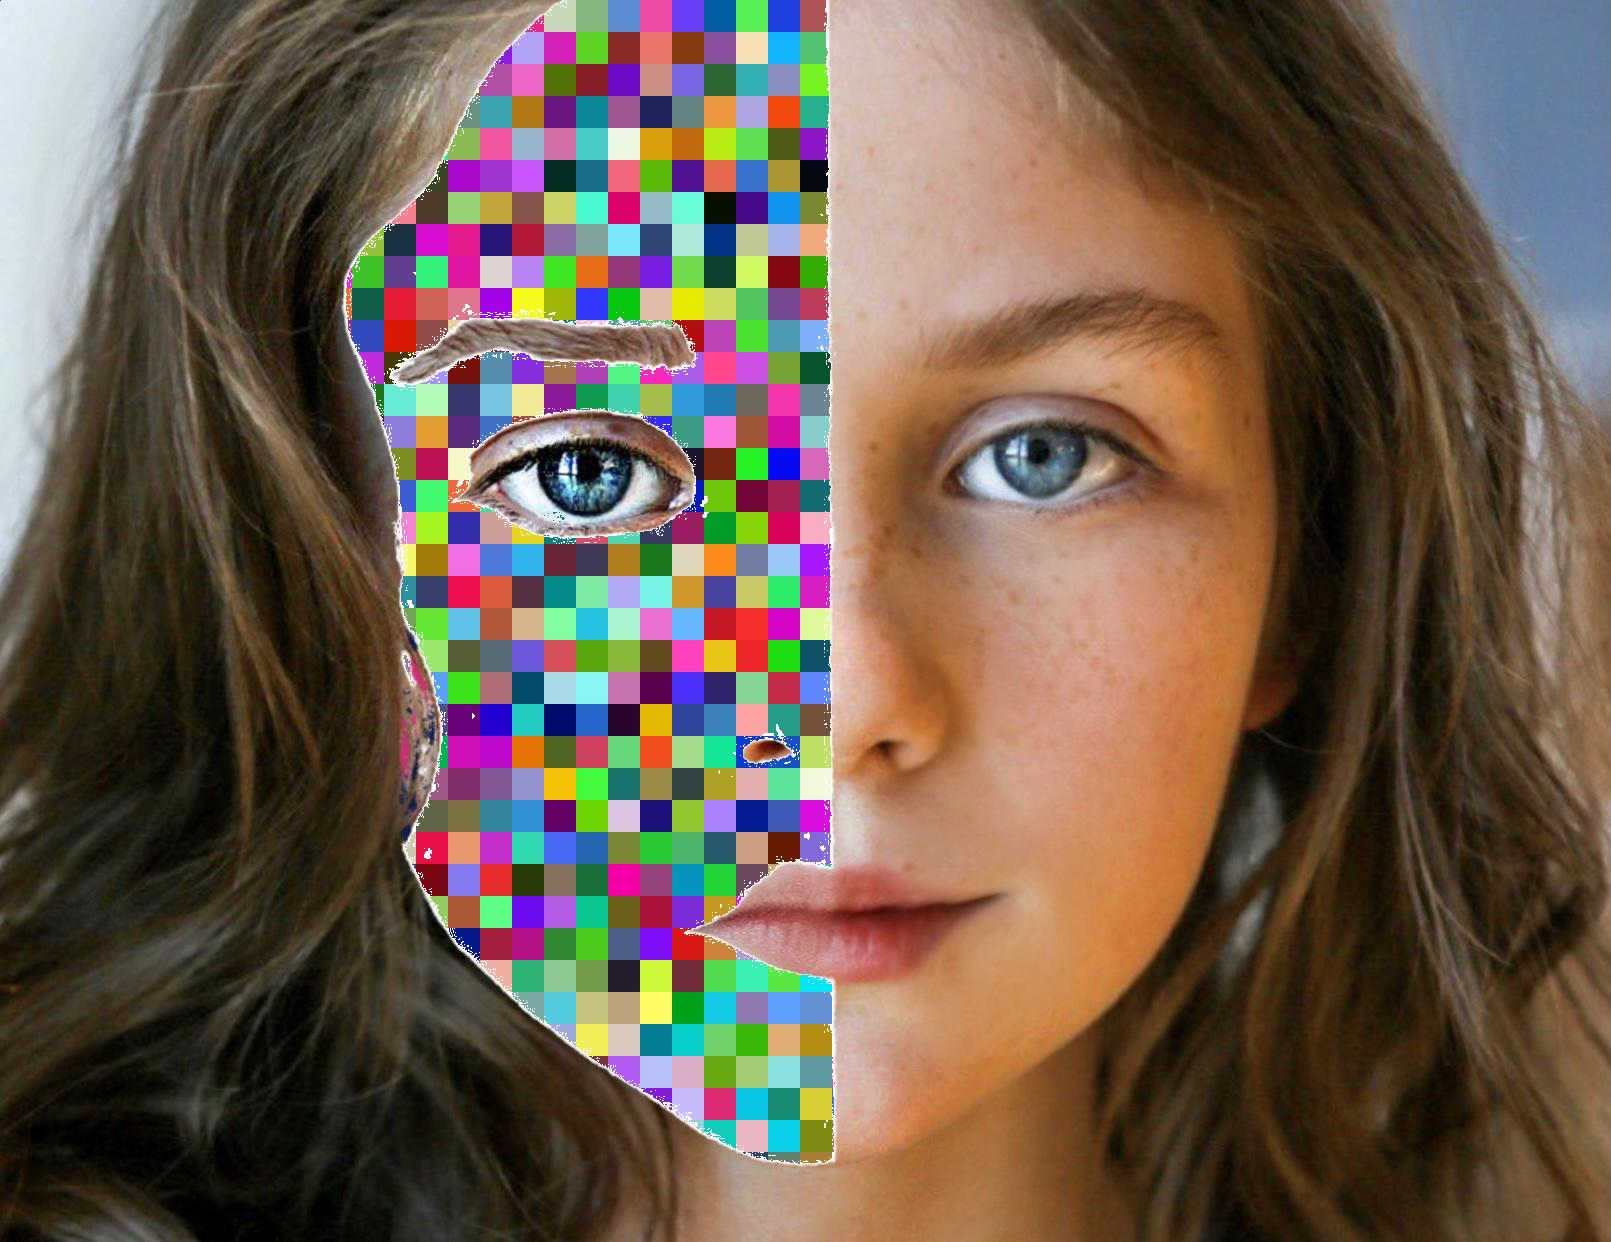
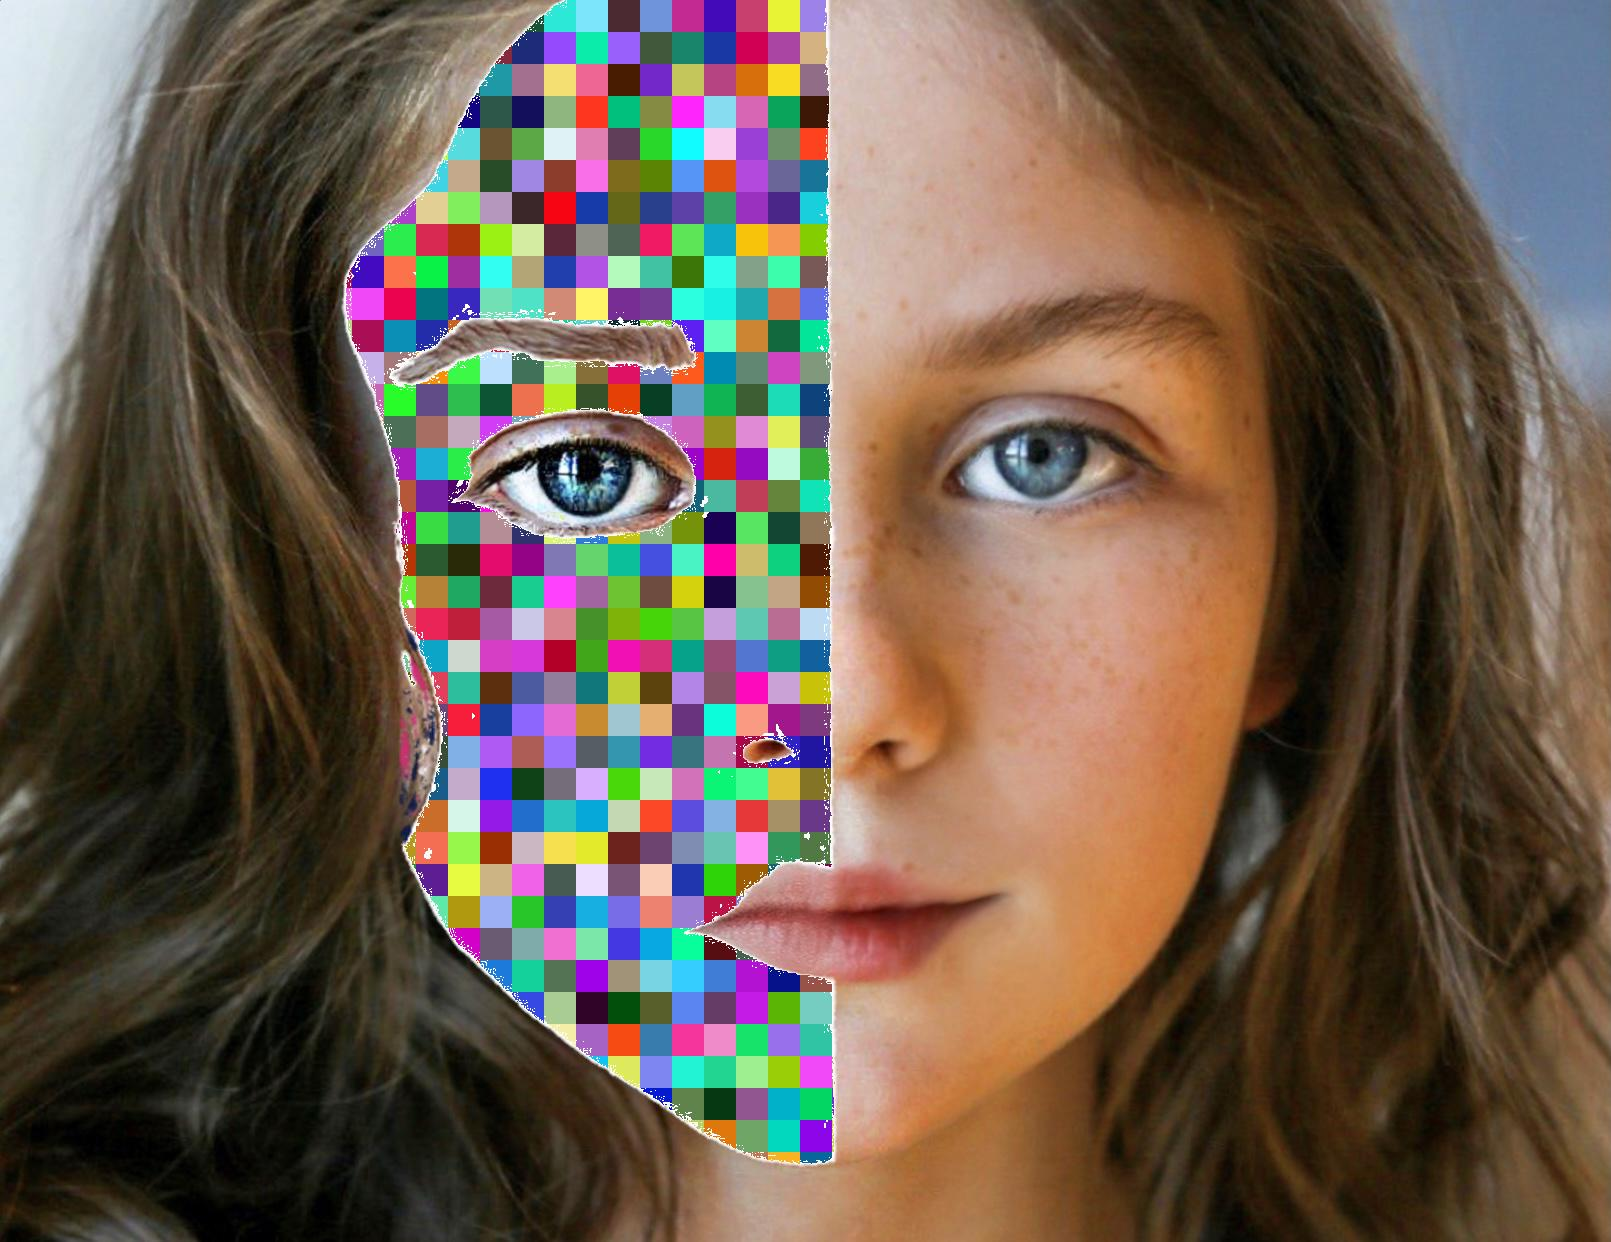
update 11.25 20:46

Changed region(s): [[0.2173, 0.0, 0.5276, 0.9485]]

diff --git a/main.py b/main.py
@@ -7,6 +7,11 @@ import tkinter as tk
 import json
 import random
 from PIL import Image, ImageTk
+import sys
+import platform
+
+if platform.system() == "Darwin":
+    from tkmacosx import Button as MacOsXButton
 
 
 class drawHalfFace():
@@ -71,6 +76,7 @@ class drawHalfFace():
 if __name__ == '__main__':
     c = drawHalfFace()
 
+
     # todo: 从检查点恢复数据
 
     def submit_word():
@@ -80,7 +86,11 @@ if __name__ == '__main__':
             label_text.configure(text=f"Remaining:{len(c.co)} pixels\nNo available pixels")
             c.savePicture()
             raise ValueError(f"Index out of range: length{len(c.co)}")
-        for input_text_value in input_text.get():
+        input_text_values = input_text.get()
+
+        print(input_text_values)
+
+        for input_text_value in input_text_values:
             print(input_text_value)
             if input_text_value in c.colorDictionary.keys():
                 color = c.colorDictionary[input_text_value]
@@ -92,15 +102,38 @@ if __name__ == '__main__':
         # label_img.image = photo
         # root.update()
 
+    def updateInputText(color):
+        input_text.configure(text=color)
 
     # ------------------- tkinter GUI config start -------------------
     root = tk.Tk()
     root.title("Demo: pictureFullFill")
     photo = ImageTk.PhotoImage(Image.fromarray(c.pic).resize((800, 600)))
-    colorChoose = tk.Listbox(root)
-    colorChoose.grid(row=0, column=0, rowspan=2, sticky=tk.NSEW)
-    for item in c.colorRanging:
-        colorChoose.insert(tk.END, item)
+
+    colorSelector = tk.Frame(root)
+    colorSelector.grid(row=0, column=0, sticky=tk.NSEW)
+    colorBoard = []
+    for i in range(len(c.colorDictionary)):
+        sub_key = list(c.colorDictionary.keys())[i]
+        sub_text = tk.Text(colorSelector, height=2, width=20)
+        sub_text.insert("insert", sub_key)
+        sub_text.grid(row=i, column=0)
+        colorSeries = []
+        r_limite, g_limite, b_limite = c.colorDictionary[sub_key]
+        rL = [i for i in range(r_limite, 255, int((254 - r_limite) // 9))]
+        gL = [i for i in range(g_limite, 255, int((254 - g_limite) // 9))]
+        bL = [i for i in range(b_limite, 255, int((254 - b_limite) // 9))]
+        for f in range(min(len(rL), len(gL), len(bL))-1):
+            r, g, b = rL[f], gL[f], bL[f]
+            sub_color = "#%02x%02x%02x" % (r, g, b)
+            if platform.system() == "Darwin":
+                sub_button = MacOsXButton(colorSelector, text="",command=lambda color:updateInputText(color), bg=sub_color, fg=sub_color, highlightbackground=sub_color,width=50)
+            else:
+                sub_button = tk.Button(colorSelector, text="",command=lambda color:updateInputText(color), bg=sub_color, fg=sub_color, highlightbackground=sub_color,width=50)
+            sub_button.grid(row=i, column=9 - f)
+            colorSeries.append(sub_button)
+        colorBoard.append(colorSeries)
+
     label_img = tk.Label(root, image=photo)
     label_img.grid(row=0, column=1, columnspan=5)
     label_text = tk.Label(root, text="Place text")

diff --git a/test.py b/test.py
@@ -1,16 +1,40 @@
 import json
-import tkinter as yk
 
-root = tk.TK()
-colorDictionary = {"文字信息":[255,255,255],
-"文字信息":[255,255,255],
-"文字信息":[255,255,255],
-"文字信息":[255,255,255],
-"文字信息":[255,255,255],
-"文字信息":[255,255,255],
-"文字信息":[255,255,255],
-"文字信息":[255,255,255],
-"文字信息":[255,255,255],
+colorDictionary = {
+    "焦虑":(101,73,134),
+    "力量":(206,25,0),
+    "恶心":(51,51,0),
+    "青春":(195,243,181),
+    "支持":(216,255,21),
+    "悲痛":(4,0,148),
+    "无感":(148,148,148),
+    "不安":(252,229,54),
 }
-with open("colorDictionary.json", "w") as f:
-    f.write(json.dumps(colorDictionary))
+
+basicColorDictionary = {
+    "Red":[165, 8, 22],
+    "Pink":[168, 45, 38],
+    "Purple":[67, 31, 134],
+    "Deep Purple":[43, 35, 140],
+    "Indigo":[26, 39, 121],
+    "Blue":[29, 73, 156],
+    "Light Blue":[32, 88, 153],
+    "Cyan":[39, 95, 99],
+    "Teal":[26, 75, 64],
+    "Green":[48, 92, 40],
+    "Light Green":[65, 103, 41],
+    "Yellow":[223, 117, 48],
+    "Light Yellow":[230, 131, 55],
+    "Orange":[213, 90, 38],
+    "Deep Orange":[176, 65, 31],
+    "Grey":[33, 33, 33],
+    "Blue Grey":[41, 50, 55],
+    "Brown":[59, 40, 35],
+}
+status = False
+if status:
+    with open("colorDictionary.json", "w") as f:
+        f.write(json.dumps(colorDictionary))
+else:
+    with open("colorDictionary.json", "w") as f:
+        f.write(json.dumps(basicColorDictionary))
